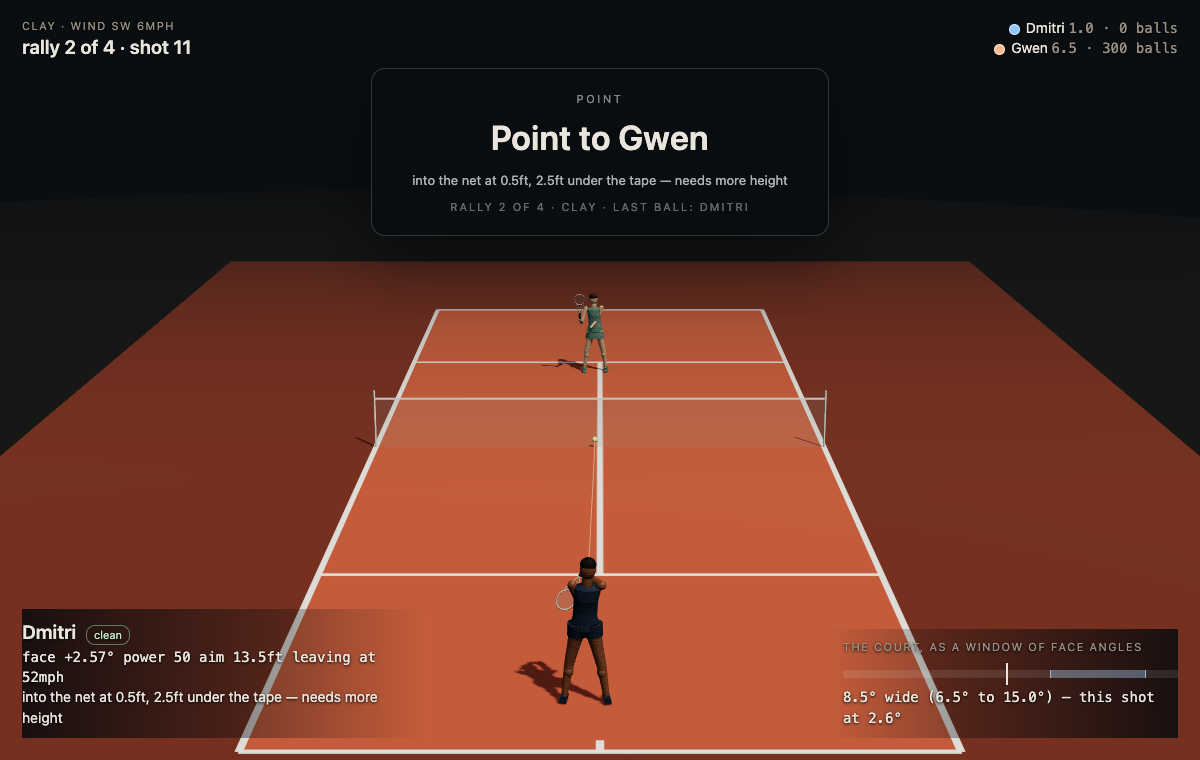
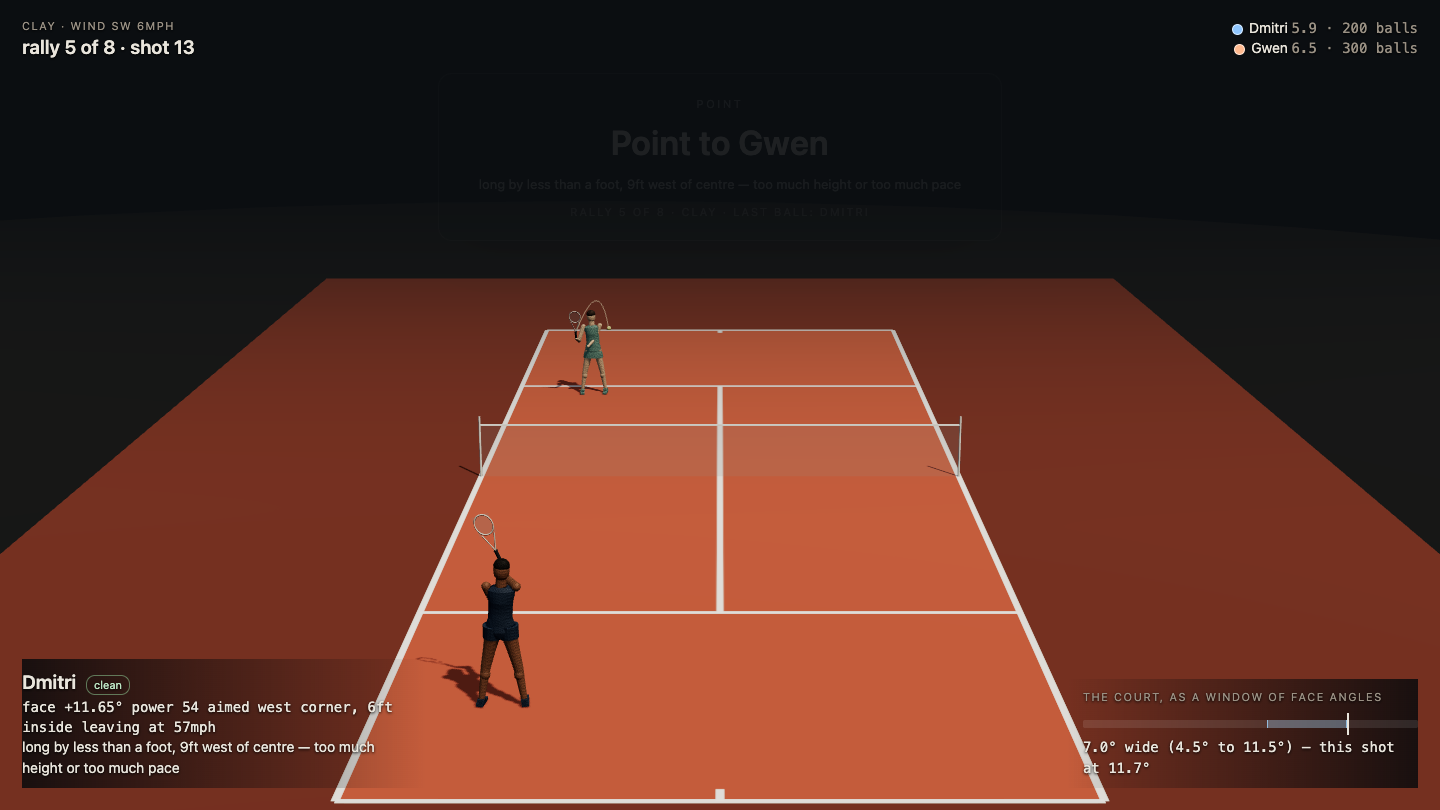
tennis: cut to the point's winner, pause 0.75s, and where the still command lives

diff --git a/games/tennis/demo3d.html b/games/tennis/demo3d.html
@@ -463,6 +463,24 @@ const PLAN = {};                       // name -> [{t0,t1,from,to}] in seconds o
 const POINT = {}, LASTN = {};
 for (const sh of D.shots) LASTN[sh.rally] = sh.n;
 for (const r of D.rallies) POINT[r.rally] = (r.point && r.point.winner) ? r.point : null;
+/* Where the player who WON the point is standing when it ends. The board says "Point to X", so the picture that
+   follows it has to be X. It was cutting to whoever struck the last ball, which reads correctly only when that
+   ball was a winner; on an error it showed the player who had just lost the point, underneath a sign naming the
+   other one, which is what he saw as reversed. Nothing is invented: the winner is wherever the record last put
+   them — their own contact point, or the end of their own run. */
+const WINPOS = {};
+{
+  const pos = {};
+  for (const pl of D.players) pos[pl.name] = { at: pl.north ? [2, WID / 2] : [LEN - 2, WID / 2], north: pl.north };
+  for (const sh of D.shots) {
+    if (sh.run) pos[sh.run.player] = { at: sh.run.to, north: sh.run.north };
+    pos[sh.player] = { at: [sh.contact[0], sh.contact[1]], north: sh.north };
+    if (POINT[sh.rally] && LASTN[sh.rally] === sh.n) {
+      const w = POINT[sh.rally].winner;
+      WINPOS[sh.rally] = (w && pos[w]) ? { name: w, at: pos[w].at, north: pos[w].north } : null;
+    }
+  }
+}
 {
   let t = 0.8;
   for (const sh of D.shots) {
@@ -507,8 +525,9 @@ function cams(sh, dur) {
   // over, which is once per rally and not once per shot. Cutting to a player at the end of every shot was the
   // last version's mistake — it turned a point of eleven shots into eleven cuts.
   const lastOne = LASTN[sh.rally] === sh.n && POINT[sh.rally];
-  return lastOne ? [{ at: 0, cam: tower() }, { at: dur, cam: between(sh) }]
-                 : [{ at: 0, cam: tower() }];
+  const w = lastOne ? WINPOS[sh.rally] : null;      // the point's winner, not the last hand on the ball
+  return w ? [{ at: 0, cam: tower() }, { at: dur, cam: between(w) }]
+           : [{ at: 0, cam: tower() }];
 }
 function nearest(land) {
   let best = null;
@@ -529,16 +548,15 @@ function tower() {
   // frame tall instead of a smudge at the edge.
   return { eye: new THREE.Vector3(-56, 29, WID / 2), at: new THREE.Vector3(NX + 14, 0.5, WID / 2), fov: 26 };
 }
-function between(sh) {
-  // Between points, television goes to the player the point was about, from the side and a step ahead of them,
-  // whole figure in frame, low. The first version stood behind them at boot height and filled the screen with a
-  // back: a cut is for reading a person, and you read a face and a stance, not a shirt.
-  const who = sh.run ? { at: sh.run.to, north: sh.run.north } : { at: [sh.contact[0], sh.contact[1]], north: sh.north };
-  const face = who.north ? 1 : -1;                       // the way that player looks
-  const side = who.at[1] < WID / 2 ? 1 : -1;             // out toward the nearer sideline
-  // Far enough back that the racquet is in the frame when it is held up, which at 13ft it was not.
-  return { eye: new THREE.Vector3(who.at[0] + 4.5 * face, 5.2, who.at[1] + 16.0 * side),
-           at: new THREE.Vector3(who.at[0] + 0.4 * face, 4.0, who.at[1]), fov: 34 };
+function between(w) {
+  // w is the point's winner: {name, at, north}. The camera stands four and a half feet in front of them, sixteen
+  // to the side, at eye level for a face: at 13 feet it cut the racquet off when a player held it up.
+  const face = w.north ? 1 : -1;
+  const side = w.at[1] < WID / 2 ? 1 : -1;
+  // 21 feet, not 16: at 16 a player with the racquet up filled the frame and the point board sat on her head, and
+  // at 13 it cut the racquet off entirely. Six feet of person and four of raised racquet need the room.
+  return { eye: new THREE.Vector3(w.at[0] + 5.0 * face, 6.2, w.at[1] + 21.0 * side),
+           at: new THREE.Vector3(w.at[0], 3.4, w.at[1]), fov: 32 };
 }
 function wide(north) {
   // Behind the hitter's baseline, high, looking at the net: the broadcast view, which is the only one that shows
@@ -572,7 +590,7 @@ const el = id => document.getElementById(id);
 const ballPos = new THREE.Vector3();
 const firstFrameFor = {};
 
-const PAUSE = 1.6;            // seconds the picture holds on the point board
+const PAUSE = 0.75;           // seconds the picture holds on the point board — his number, 2026-11-11
 let pauseUntil = 0;           // wall clock, ms
 
 function tick(now) {
@@ -712,7 +730,8 @@ function tick(now) {
       `last ball: ${sh.player}`;
   }
   el("cut").className = onCut ? "on" : "";
-  if (onCut) el("cut").textContent = `between points · ${sh.run ? sh.run.player : sh.player}`;
+  if (onCut) el("cut").textContent =
+    `between points · ${WINPOS[sh.rally] ? WINPOS[sh.rally].name : sh.player}`;
 
   renderer.render(scene, camera);
   requestAnimationFrame(tick);

diff --git a/games/tennis/replay3d.html b/games/tennis/replay3d.html
@@ -463,6 +463,24 @@ const PLAN = {};                       // name -> [{t0,t1,from,to}] in seconds o
 const POINT = {}, LASTN = {};
 for (const sh of D.shots) LASTN[sh.rally] = sh.n;
 for (const r of D.rallies) POINT[r.rally] = (r.point && r.point.winner) ? r.point : null;
+/* Where the player who WON the point is standing when it ends. The board says "Point to X", so the picture that
+   follows it has to be X. It was cutting to whoever struck the last ball, which reads correctly only when that
+   ball was a winner; on an error it showed the player who had just lost the point, underneath a sign naming the
+   other one, which is what he saw as reversed. Nothing is invented: the winner is wherever the record last put
+   them — their own contact point, or the end of their own run. */
+const WINPOS = {};
+{
+  const pos = {};
+  for (const pl of D.players) pos[pl.name] = { at: pl.north ? [2, WID / 2] : [LEN - 2, WID / 2], north: pl.north };
+  for (const sh of D.shots) {
+    if (sh.run) pos[sh.run.player] = { at: sh.run.to, north: sh.run.north };
+    pos[sh.player] = { at: [sh.contact[0], sh.contact[1]], north: sh.north };
+    if (POINT[sh.rally] && LASTN[sh.rally] === sh.n) {
+      const w = POINT[sh.rally].winner;
+      WINPOS[sh.rally] = (w && pos[w]) ? { name: w, at: pos[w].at, north: pos[w].north } : null;
+    }
+  }
+}
 {
   let t = 0.8;
   for (const sh of D.shots) {
@@ -507,8 +525,9 @@ function cams(sh, dur) {
   // over, which is once per rally and not once per shot. Cutting to a player at the end of every shot was the
   // last version's mistake — it turned a point of eleven shots into eleven cuts.
   const lastOne = LASTN[sh.rally] === sh.n && POINT[sh.rally];
-  return lastOne ? [{ at: 0, cam: tower() }, { at: dur, cam: between(sh) }]
-                 : [{ at: 0, cam: tower() }];
+  const w = lastOne ? WINPOS[sh.rally] : null;      // the point's winner, not the last hand on the ball
+  return w ? [{ at: 0, cam: tower() }, { at: dur, cam: between(w) }]
+           : [{ at: 0, cam: tower() }];
 }
 function nearest(land) {
   let best = null;
@@ -529,16 +548,15 @@ function tower() {
   // frame tall instead of a smudge at the edge.
   return { eye: new THREE.Vector3(-56, 29, WID / 2), at: new THREE.Vector3(NX + 14, 0.5, WID / 2), fov: 26 };
 }
-function between(sh) {
-  // Between points, television goes to the player the point was about, from the side and a step ahead of them,
-  // whole figure in frame, low. The first version stood behind them at boot height and filled the screen with a
-  // back: a cut is for reading a person, and you read a face and a stance, not a shirt.
-  const who = sh.run ? { at: sh.run.to, north: sh.run.north } : { at: [sh.contact[0], sh.contact[1]], north: sh.north };
-  const face = who.north ? 1 : -1;                       // the way that player looks
-  const side = who.at[1] < WID / 2 ? 1 : -1;             // out toward the nearer sideline
-  // Far enough back that the racquet is in the frame when it is held up, which at 13ft it was not.
-  return { eye: new THREE.Vector3(who.at[0] + 4.5 * face, 5.2, who.at[1] + 16.0 * side),
-           at: new THREE.Vector3(who.at[0] + 0.4 * face, 4.0, who.at[1]), fov: 34 };
+function between(w) {
+  // w is the point's winner: {name, at, north}. The camera stands four and a half feet in front of them, sixteen
+  // to the side, at eye level for a face: at 13 feet it cut the racquet off when a player held it up.
+  const face = w.north ? 1 : -1;
+  const side = w.at[1] < WID / 2 ? 1 : -1;
+  // 21 feet, not 16: at 16 a player with the racquet up filled the frame and the point board sat on her head, and
+  // at 13 it cut the racquet off entirely. Six feet of person and four of raised racquet need the room.
+  return { eye: new THREE.Vector3(w.at[0] + 5.0 * face, 6.2, w.at[1] + 21.0 * side),
+           at: new THREE.Vector3(w.at[0], 3.4, w.at[1]), fov: 32 };
 }
 function wide(north) {
   // Behind the hitter's baseline, high, looking at the net: the broadcast view, which is the only one that shows
@@ -572,7 +590,7 @@ const el = id => document.getElementById(id);
 const ballPos = new THREE.Vector3();
 const firstFrameFor = {};
 
-const PAUSE = 1.6;            // seconds the picture holds on the point board
+const PAUSE = 0.75;           // seconds the picture holds on the point board — his number, 2026-11-11
 let pauseUntil = 0;           // wall clock, ms
 
 function tick(now) {
@@ -712,7 +730,8 @@ function tick(now) {
       `last ball: ${sh.player}`;
   }
   el("cut").className = onCut ? "on" : "";
-  if (onCut) el("cut").textContent = `between points · ${sh.run ? sh.run.player : sh.player}`;
+  if (onCut) el("cut").textContent =
+    `between points · ${WINPOS[sh.rally] ? WINPOS[sh.rally].name : sh.player}`;
 
   renderer.render(scene, camera);
   requestAnimationFrame(tick);

diff --git a/games/tennis/STILLS.md b/games/tennis/STILLS.md
@@ -1,0 +1,34 @@
+# Taking a still
+
+Every picture in `stills/` comes from one command. It lives here because it was asked where it is kept, and the
+answer was "in a chat" — which is not a place.
+
+```sh
+"/Applications/Google Chrome.app/Contents/MacOS/Google Chrome" \
+  --headless=new --use-angle=metal --run-all-compositor-stages-before-draw --hide-scrollbars \
+  --window-size=1440,810 --virtual-time-budget=12000 \
+  --screenshot=games/tennis/stills/NAME.png \
+  "http://localhost:8778/games/tennis/demo3d.html?point=1"
+```
+
+Three of those flags are not decoration:
+
+- `--use-angle=metal` — without it WebGL cannot create a context on this Mac (`VENDOR = 0xffff, GL_VENDOR =
+  Disabled`) and the screenshot is a black rectangle.
+- `--headless=new` — the old `--headless` gives the same black rectangle even with Metal, and the page's own
+  readouts stay at their `—` placeholders because the script never runs.
+- `--run-all-compositor-stages-before-draw` — otherwise the canvas is captured before the first frame lands, and
+  every still is byte-identical to every other still.
+
+The server is already up at `http://localhost:8778` from `~/ai_tribe` (`python3 -m http.server 8778`). A `file://`
+URL will not load the `.glb` bodies, so the page needs the server.
+
+## Jumping to a moment
+
+The page takes three query parameters, all of which pause the film so the still is repeatable:
+
+- `?point=5` — the end of rally 5: the point board, and the clock stopped.
+- `?shot=12` — shot 12, with `&at=0.8` to choose how far through it (0 to 1).
+- `?t=41.2` — an absolute time in seconds of film.
+
+`?cam=near` puts the camera beside the near baseline for looking at feet.
